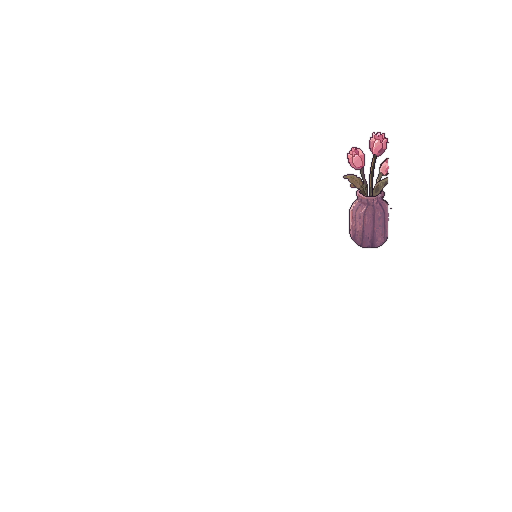
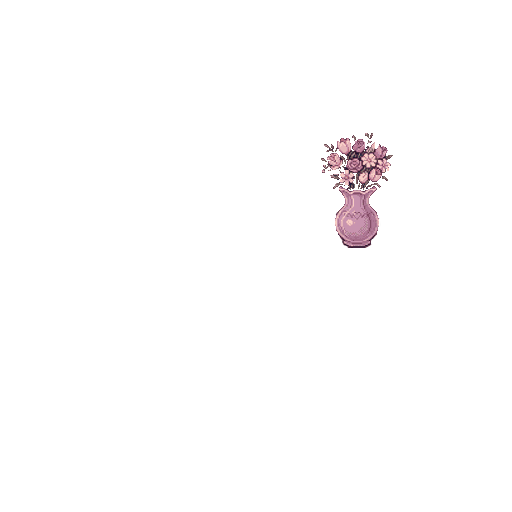
Added pink window scenes and update vase artwork and deleted unused assets.

Changed region(s): [[0.625, 0.25, 0.7812, 0.5]]

diff --git a/src/App.jsx b/src/App.jsx
@@ -46,6 +46,25 @@ import frameMobile4 from '../assets/pink/frame_mobile_4.png';*/
 const pinkDesktopFrames = [frame1];
 const pinkMobileFrames = [frameMobile1];
 
+// Static window scenes: fixed original frame with transparent pane cutouts
+// on top, swappable scene layer behind (clipped to the window region).
+import frameMobileCutout from '../assets/pink/frame_mobile_cutout.png';
+import frameTabletCutout from '../assets/pink/frame_tablet_cutout.png';
+import sceneGardenPhone from '../assets/pink/scenes/garden_phone.png';
+import sceneCoastPhone from '../assets/pink/scenes/coast_phone.png';
+import sceneMountainsPhone from '../assets/pink/scenes/mountains_phone.png';
+import sceneGardenTablet from '../assets/pink/scenes/garden_tablet.png';
+import sceneCoastTablet from '../assets/pink/scenes/coast_tablet.png';
+import sceneMountainsTablet from '../assets/pink/scenes/mountains_tablet.png';
+import sceneRooftopSunsetPhone from '../assets/pink/scenes/rooftop_sunset_phone.png';
+import sceneCityDayPhone from '../assets/pink/scenes/city_day_phone.png';
+import sceneRooftopSunsetTablet from '../assets/pink/scenes/rooftop_sunset_tablet.png';
+import sceneCityDayTablet from '../assets/pink/scenes/city_day_tablet.png';
+const pinkWindowScenes = {
+  phone: [sceneGardenPhone, sceneCoastPhone, sceneMountainsPhone, sceneRooftopSunsetPhone, sceneCityDayPhone],
+  tablet: [sceneGardenTablet, sceneCoastTablet, sceneMountainsTablet, sceneRooftopSunsetTablet, sceneCityDayTablet],
+};
+
 // Singleton cache so we only ever call createMediaElementSource once per <audio> element
 const audioGraphMap = new WeakMap();
 
@@ -436,8 +455,29 @@ useEffect(() => {
 
 // Only activate the tall layout on phones, not tablets
 const isMobile = isNative && isPhoneScreen;
+// Native tablet: desktop-style layout, but we may still swap its window scene
+const isTablet = isNative && !isPhoneScreen;
 // Select a random frame index (0 to 3) once when the app first loads
 const [frameIndex] = useState(() => Math.floor(Math.random() * pinkDesktopFrames.length));
+
+  // ── Window scene (pink theme, native phone/tablet) ──────
+  // Tap the window to cycle through the active device scene list.
+  const activeWindowScenes = isMobile
+    ? pinkWindowScenes.phone
+    : pinkWindowScenes.tablet;
+  const [sceneIndex, setSceneIndex] = useState(() => {
+    try {
+      const saved = Number(localStorage.getItem('cupid-window-scene') || '0');
+      return Number.isSafeInteger(saved) && saved >= 0 ? saved : 0;
+    } catch { return 0; }
+  });
+  const cycleWindowScene = () => {
+    setSceneIndex((i) => {
+      const next = (i + 1) % activeWindowScenes.length;
+      try { localStorage.setItem('cupid-window-scene', String(next)); } catch {}
+      return next;
+    });
+  };
 
   // ── Visualizer state ─────────────────────────────────────
   const [visualizerEnabled, setVisualizerEnabled] = useState(() => {
@@ -957,15 +997,27 @@ const handleCatClick = (e) => {
     <div className="player-viewport">
       <div className={`player ${theme === 'blue' ? 'theme-blue' : ''} ${isMobile ? 'mobile-layout' : ''}`}>
         
+        {/* Static window scene behind the pane cutouts (pink, native only) */}
+        {theme === 'pink' && (isMobile || isTablet) && (
+          <img
+            src={activeWindowScenes[sceneIndex % activeWindowScenes.length]}
+            className={`window-scene ${isMobile ? 'window-scene-phone' : 'window-scene-tablet'}`}
+            alt=""
+            draggable={false}
+            onClick={cycleWindowScene}
+            title="tap to change the view"
+          />
+        )}
+
         {/* Base frame */}
-        <img 
-          src={theme === 'pink' 
-            ? (isMobile ? pinkMobileFrames[frameIndex] : pinkDesktopFrames[frameIndex])
+        <img
+          src={theme === 'pink'
+            ? (isMobile ? frameMobileCutout : (isTablet ? frameTabletCutout : pinkDesktopFrames[frameIndex]))
             : (isMobile ? assets.frameMobile : assets.frame)
-          } 
-          className="layer mobile-frame" 
-          alt="" 
-          draggable={false} 
+          }
+          className="layer mobile-frame"
+          alt=""
+          draggable={false}
         />
 
         {/* Ambient Lighting Overlay (Tints the room & turntable based on the window) */}

diff --git a/src/App.css b/src/App.css
@@ -1124,3 +1124,29 @@
   transform: translateX(-50%) rotate(6deg); 
   z-index: 4;
 }
+/* ── Static window scene (behind the pane cutouts) ─────────────────
+   The scene image sits below the base frame img (DOM order, same stacking
+   level), clipped to the window region. Rects are the art-px window region
+   mapped through the same stretch the frame image gets:
+   phone: x*526/434-110, y*692/575-23; tablet: x*526/512-110, y*526/512-23. */
+.window-scene {
+  position: absolute;
+  z-index: 0;
+  pointer-events: auto;
+  cursor: pointer;
+  user-select: none;
+}
+
+.player.mobile-layout .window-scene-phone {
+  left: calc(159.07 * var(--u));
+  top: calc(58.84 * var(--u));
+  width: calc(129.69 * var(--u));
+  height: calc(178.11 * var(--u));
+}
+
+.window-scene-tablet {
+  left: calc(155.04 * var(--u));
+  top: calc(59.19 * var(--u));
+  width: calc(118.16 * var(--u));
+  height: calc(86.30 * var(--u));
+}
